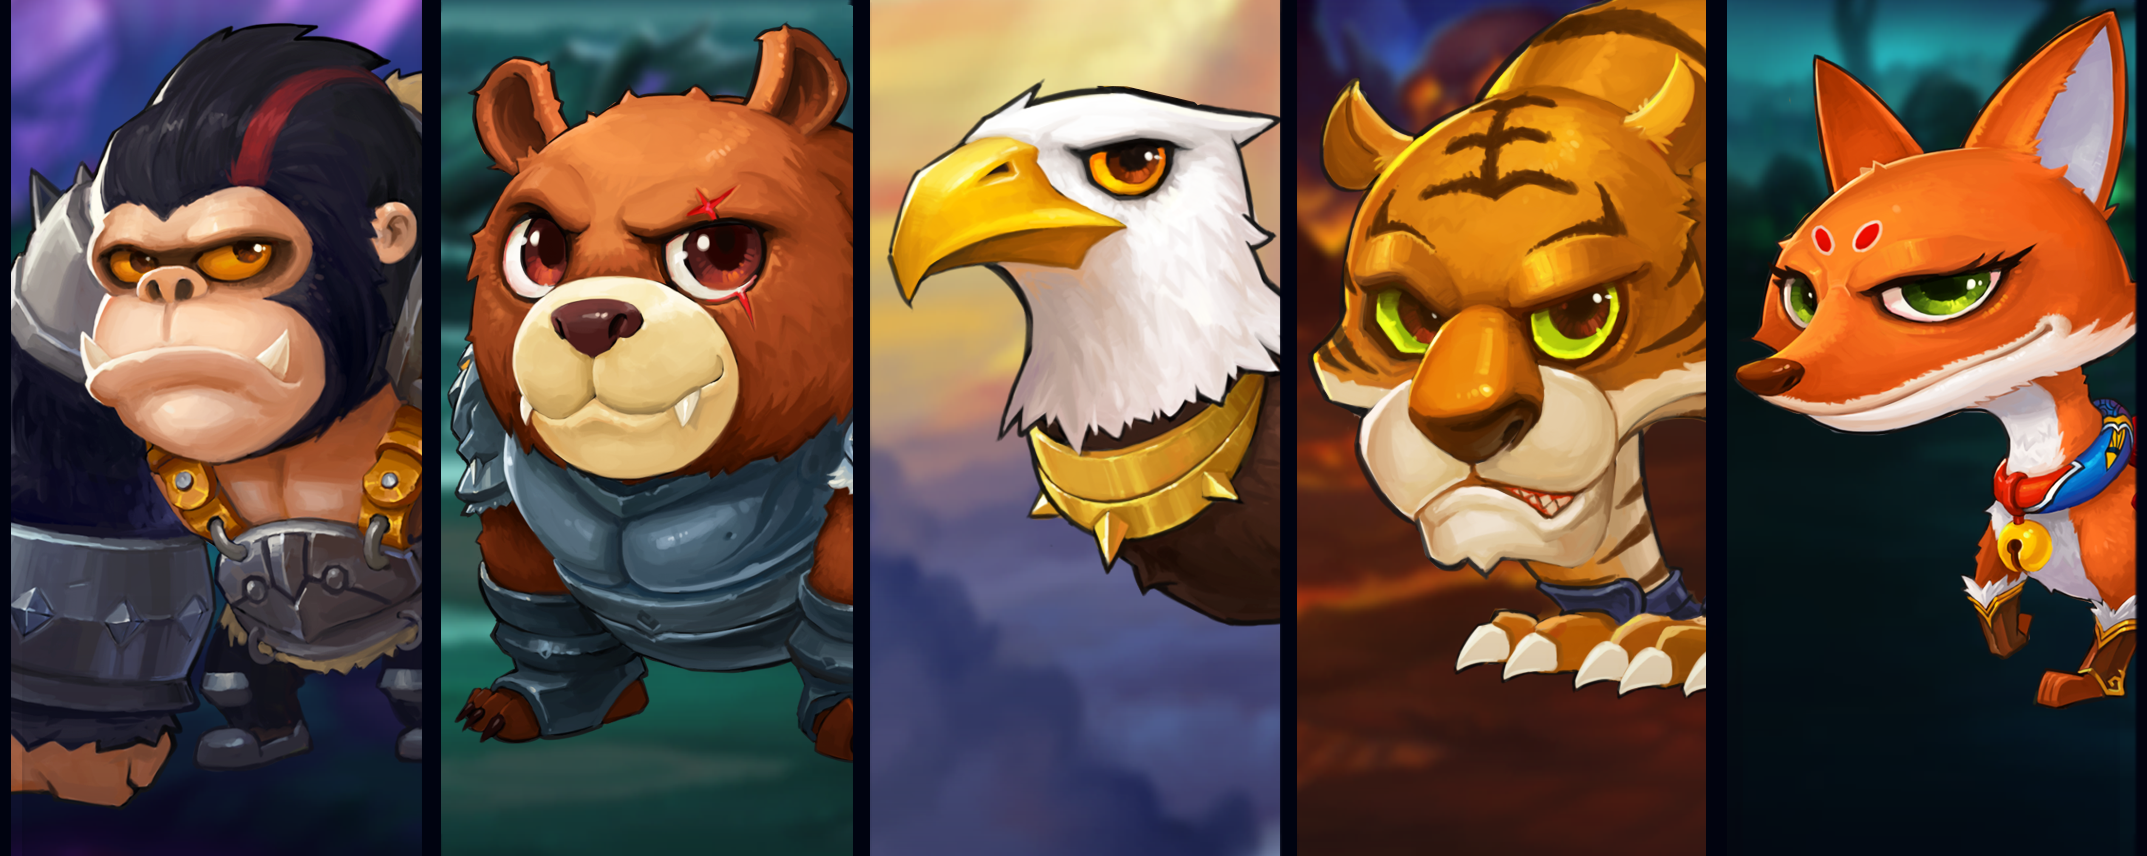
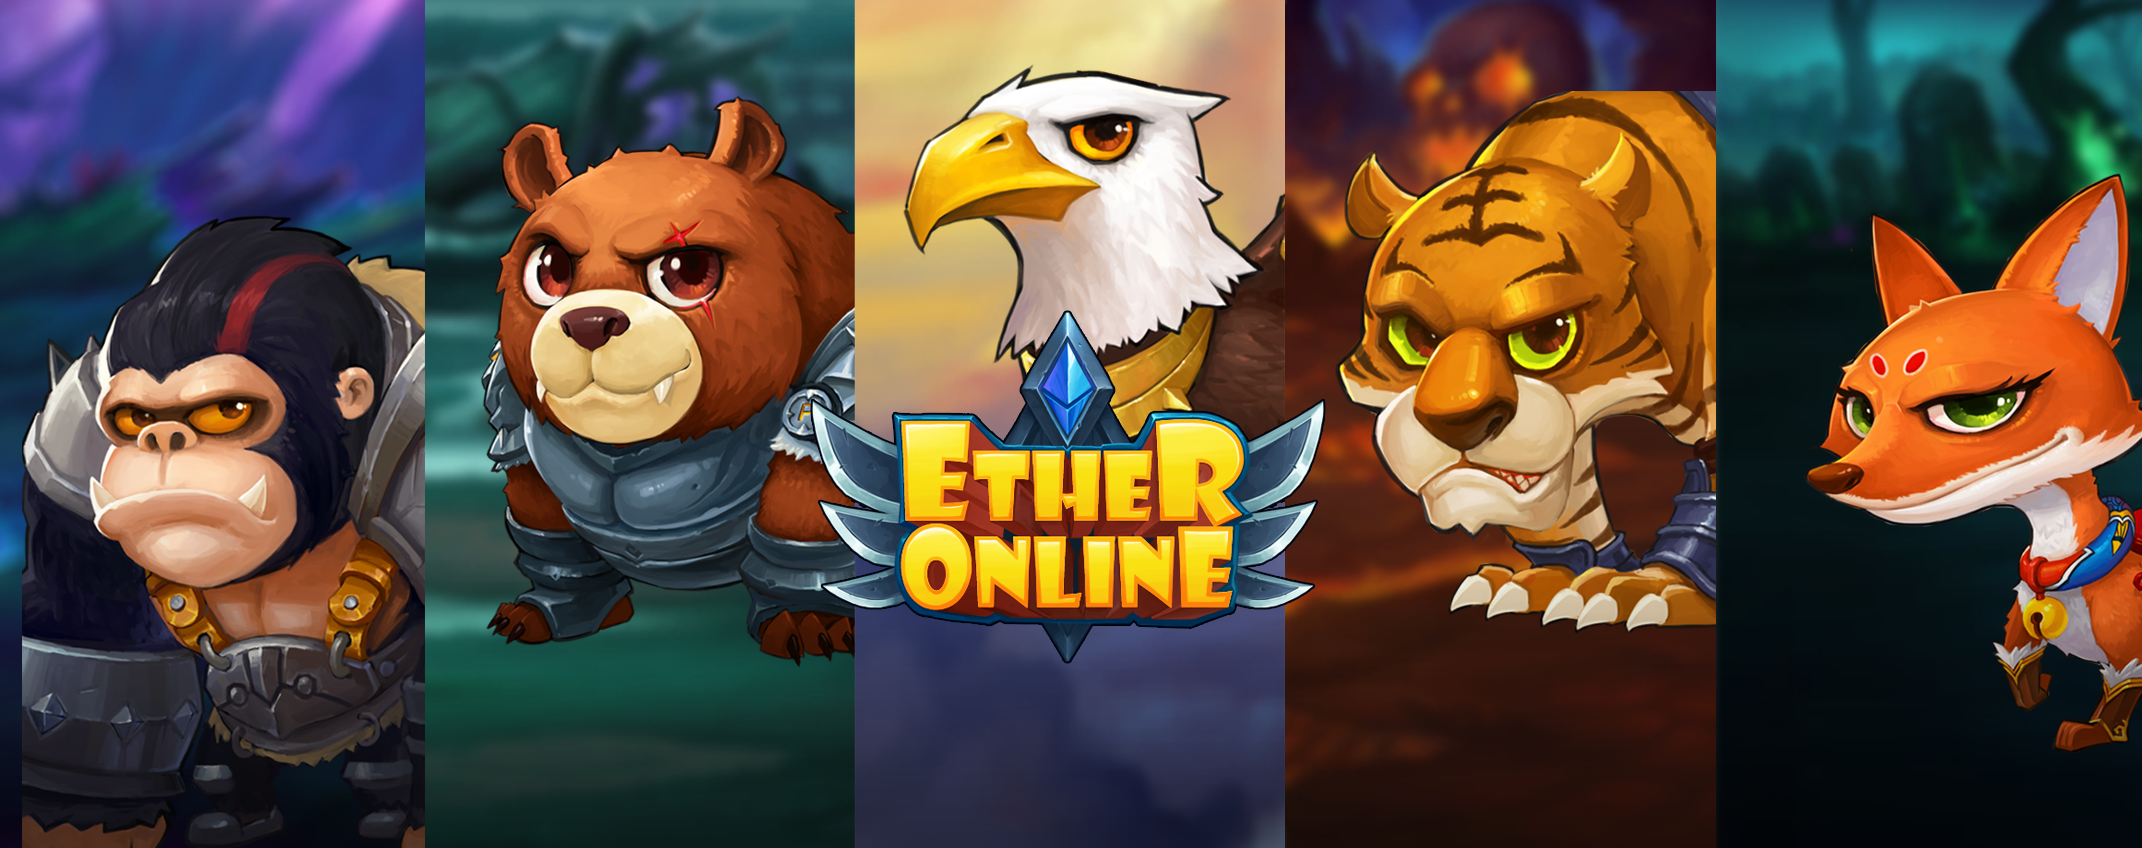
update landing

diff --git a/client/components/games/games.less b/client/components/games/games.less
@@ -1,52 +1,52 @@
 .iframe {
   background-image: url("/images/landing.png");
   background-size: contain;
+  background-position: center;
   height: 450px;
   margin: 0 -90px;
+  position: relative;
 
-  .gradient {
-    padding: 60px 90px;
-    height: 100%;
-    background: linear-gradient(to bottom, rgba(255,255,255,0) 0%, rgba(255,255,255,1) 100%);
+  .title {
+    font-size: 65px;
+    font-weight: 700;
+    margin-top: 10px;
+    margin-bottom: 10px;
+  }
 
-    .title {
-      font-size: 65px;
-      font-weight: 700;
-      margin-top: 10px;
-      margin-bottom: 10px;
-    }
+  .description {
+    font-size: 20px;
+    font-weight: 500;
+    width: 490px;
+  }
 
-    .description {
-      font-size: 20px;
-      font-weight: 500;
-      width: 490px;
-    }
+  .btn {
+    color: var(--main-color);
+    background: linear-gradient(to right, rgb(177, 200, 232) 0%, rgb(251, 252, 255) 100%); // #B1C8E8 #FBFCFF
+    font-size: 22px;
+    font-weight: 700;
+    padding: 0;
+    width: 148px;
+    height: 54px;
+    line-height: 54px;
+    border: 0;
+    border-radius: 2px;
+    text-transform: uppercase;
+    position: absolute;
+    bottom: 0;
+    margin: 30px auto;
+    left: 0;
+    right: 0;
 
-    .btn {
+    &:hover {
+      background: linear-gradient(to right, rgb(113, 137, 182) 0%, rgb(220, 222, 232) 100%); // #7189B6 #DCDEE8
       color: var(--main-color);
-      background-color: #FF8E64;
-      font-size: 22px;
-      font-weight: 700;
-      padding: 0;
-      width: 148px;
-      height: 54px;
-      line-height: 54px;
-      border: 0;
-      border-radius: 2px;
-      margin: 50px 0;
-      text-transform: uppercase;
+    }
 
-      &:hover {
-        background-color: #FF7656;
-        color: var(--main-color);
-      }
-
-      img {
-        width: 16px;
-        height: 16px;
-        margin-top: -5px;
-        margin-right: 5px;
-      }
+    img {
+      width: 16px;
+      height: 16px;
+      margin-top: -5px;
+      margin-right: 5px;
     }
   }
 }

diff --git a/client/components/games/index.development.jsx b/client/components/games/index.development.jsx
@@ -13,18 +13,10 @@ export default class GameList extends Component {
       <Row>
         <Col className="grap gap">
           <div className="iframe">
-            <div className="gradient">
-              <div className="title">
-                <FormattedMessage id="pages.games.title" />
-              </div>
-              <div className="description">
-                <FormattedMessage id="pages.games.description" />
-              </div>
-              <Button href="/game/5af2703709bc2d18438449ad">
-                <Image src="/images/buttons/play/play.png" />
-                <FormattedMessage id="pages.games.play" />
-              </Button>
-            </div>
+            <Button href="/game/5af2703709bc2d18438449ad">
+              <Image src="/images/buttons/play/play.png" />
+              <FormattedMessage id="pages.games.play" />
+            </Button>
           </div>
           <Row>
             <Col lg={5} className="preview">
